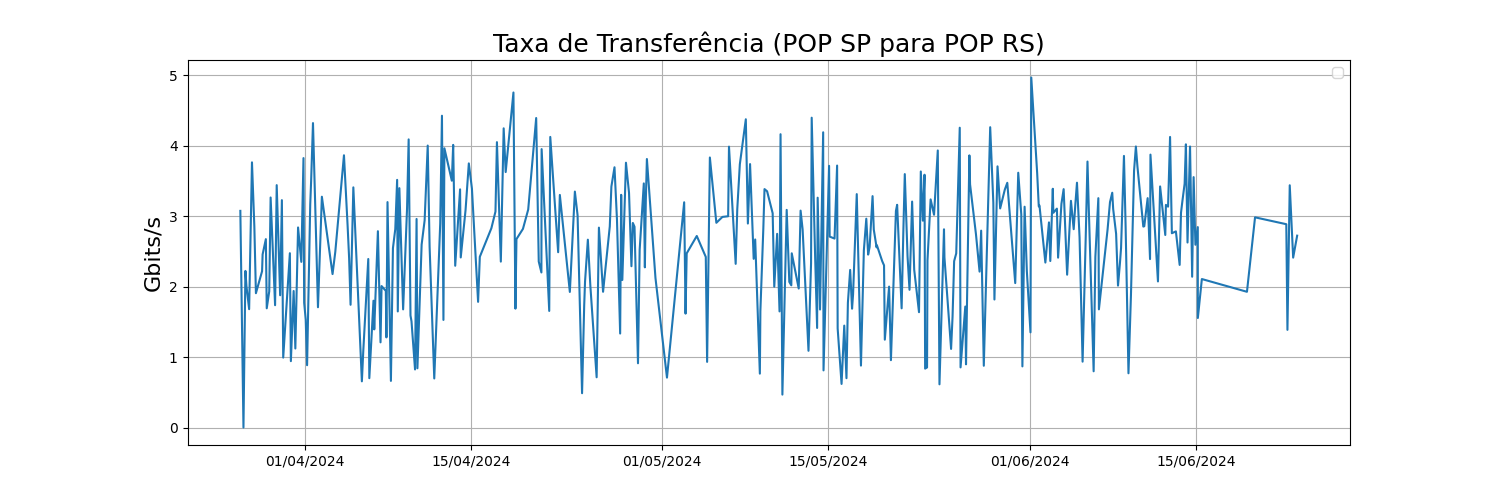
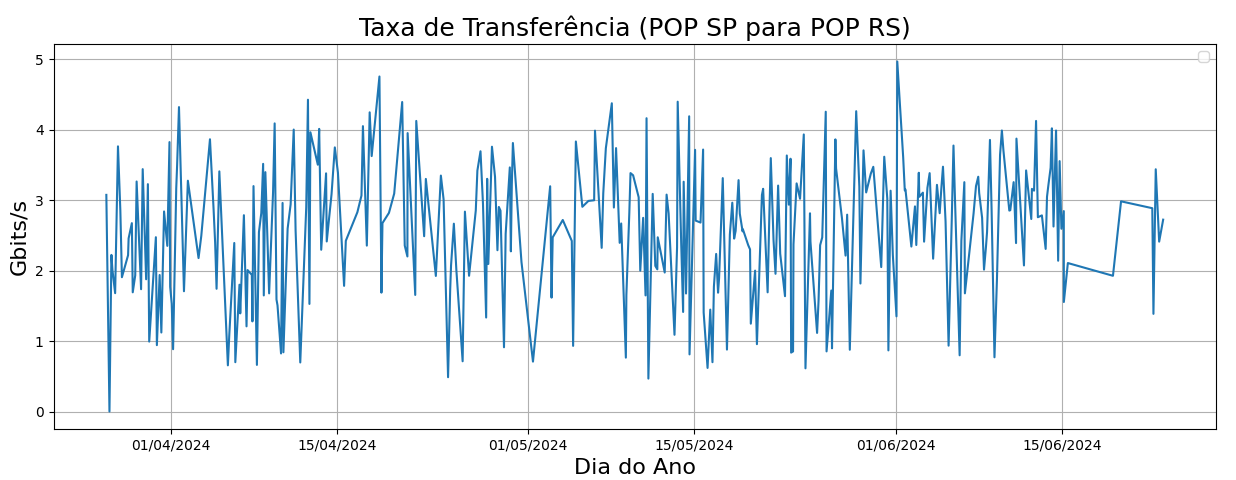
finish

diff --git a/packets-retransmits-analysis.py b/packets-retransmits-analysis.py
@@ -85,8 +85,8 @@ stepwise_fit = auto_arima(
 stepwise_fit.summary()
 
 # Split data into training and testing sets
-train = daily.iloc[:len(daily) - 12]
-test = daily.iloc[len(daily) - 12:]
+train = daily.iloc[:len(daily) - 36]
+test = daily.iloc[len(daily) - 36:]
 
 # Fit SARIMA model to training data (using manually chosen parameters)
 model = SARIMAX(

diff --git a/throughputs-base.py b/throughputs-base.py
@@ -22,7 +22,7 @@ date_format = mdates.DateFormatter("%d/%m/%Y")
 plt.gca().xaxis.set_major_formatter(date_format)
 
 # Plot the data
-plt.ylabel("Dia do Ano", fontsize=16)
+plt.xlabel("Dia do Ano", fontsize=16)
 plt.ylabel("Gbits/s", fontsize=16)
 plt.title("Taxa de Transferência (POP SP para POP RS)", fontsize=18)
 plt.legend()
